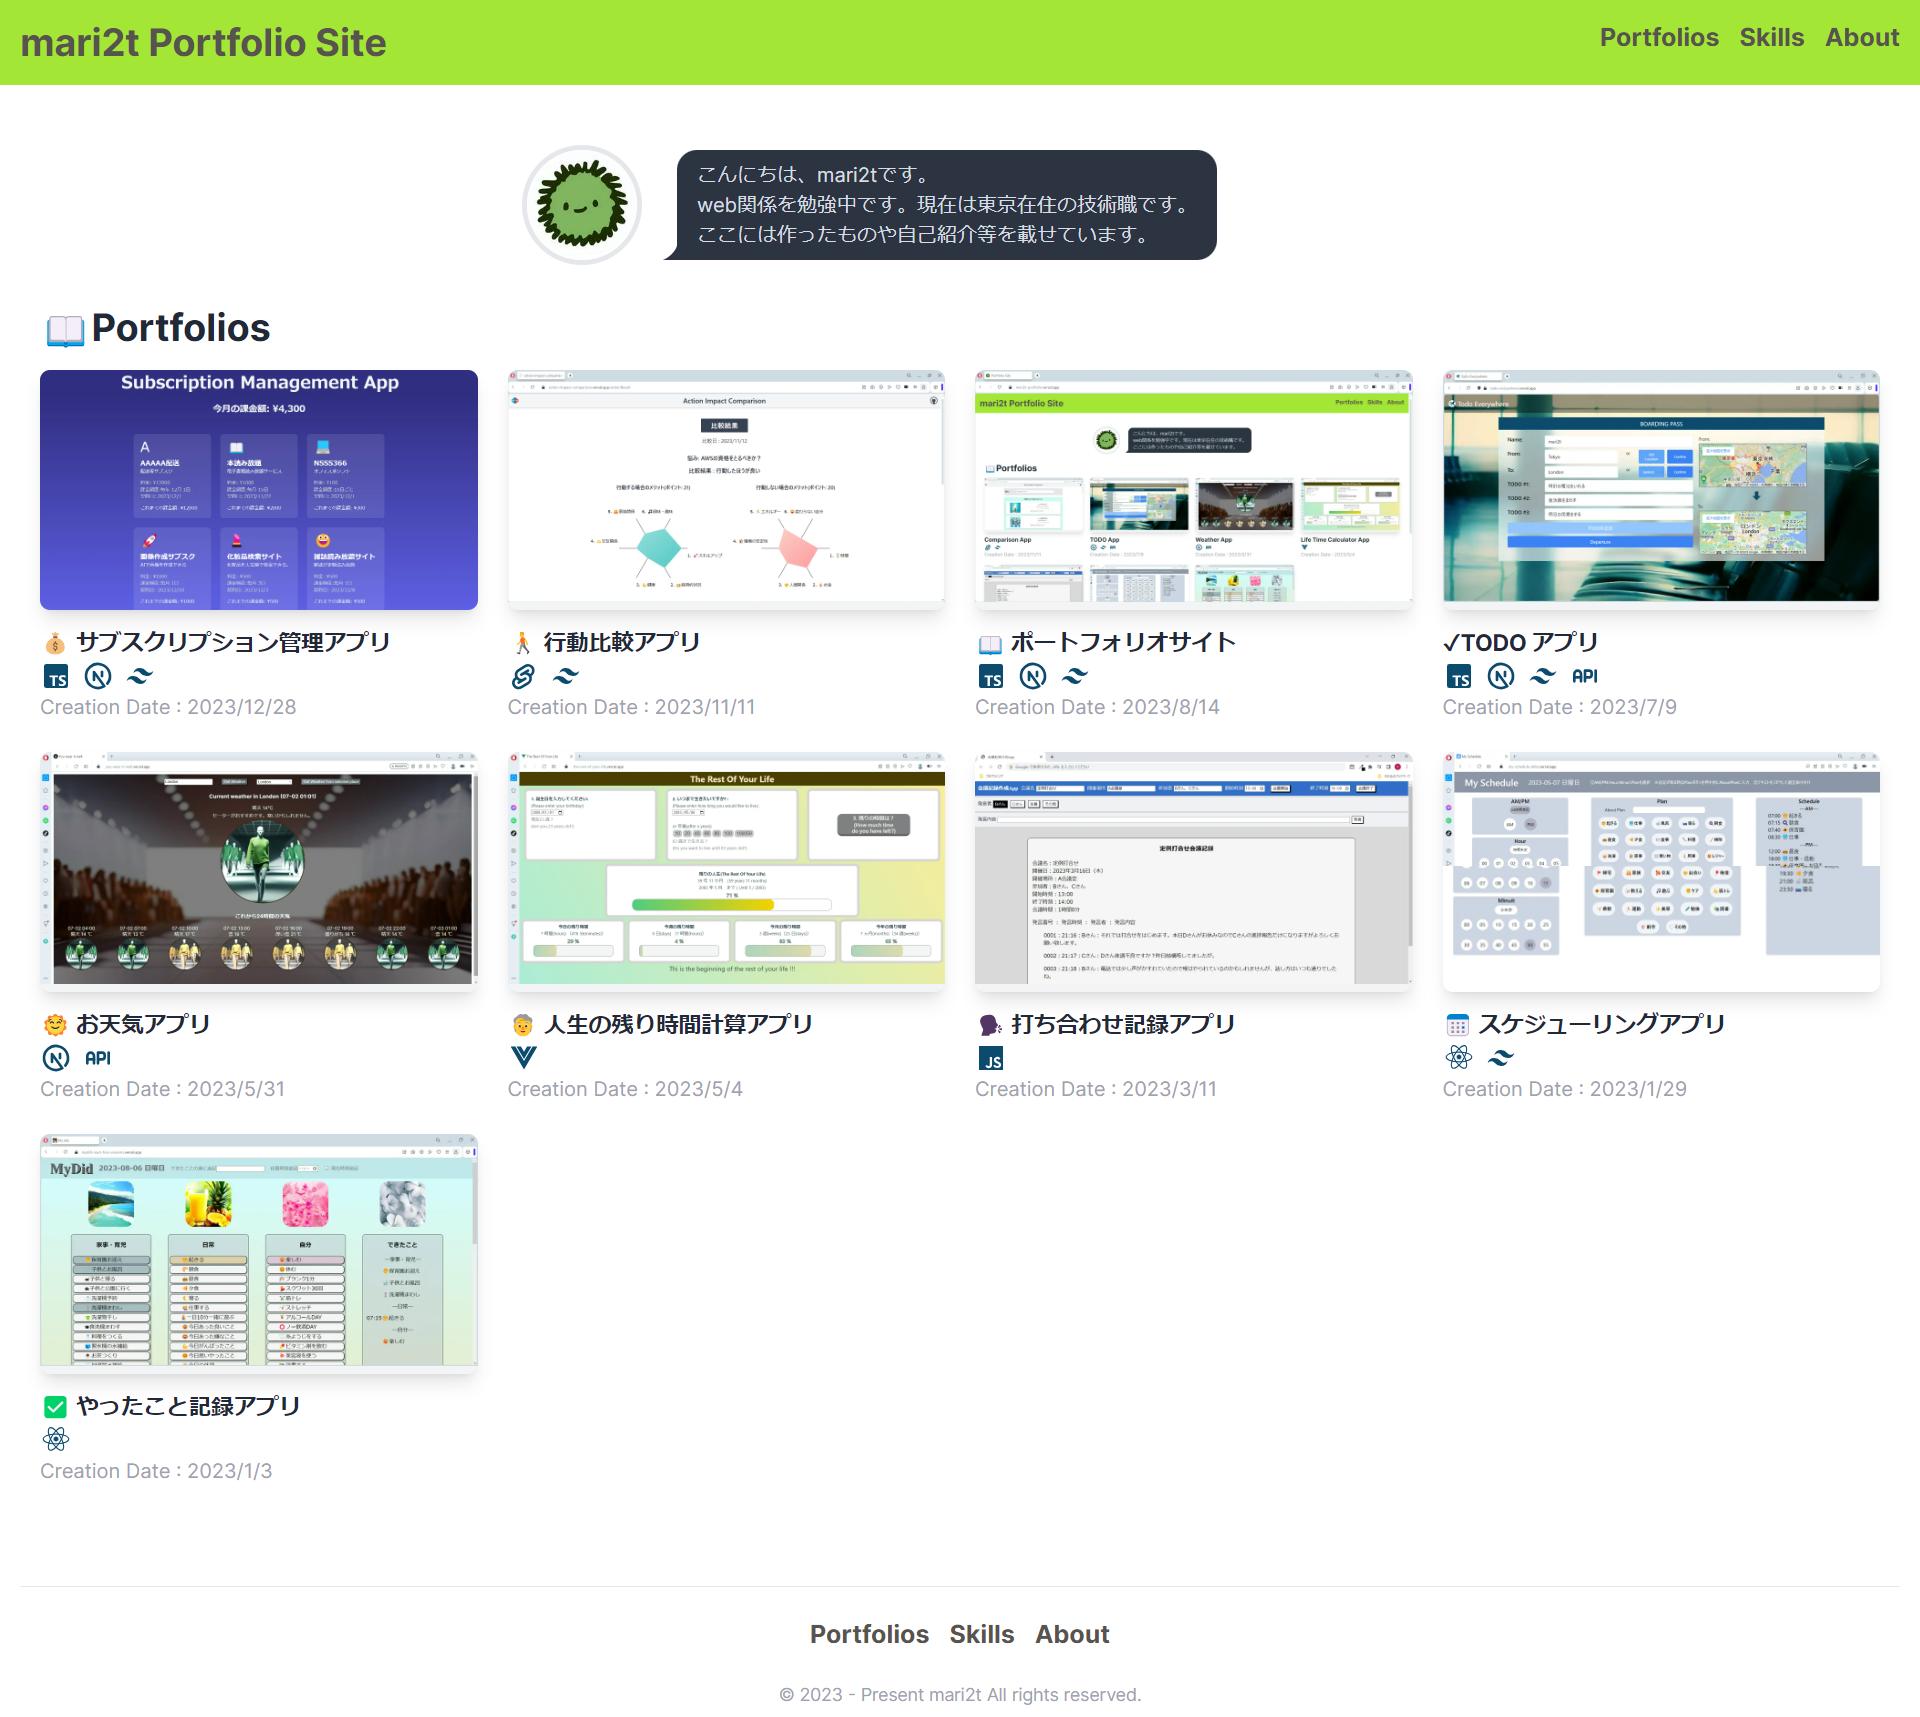
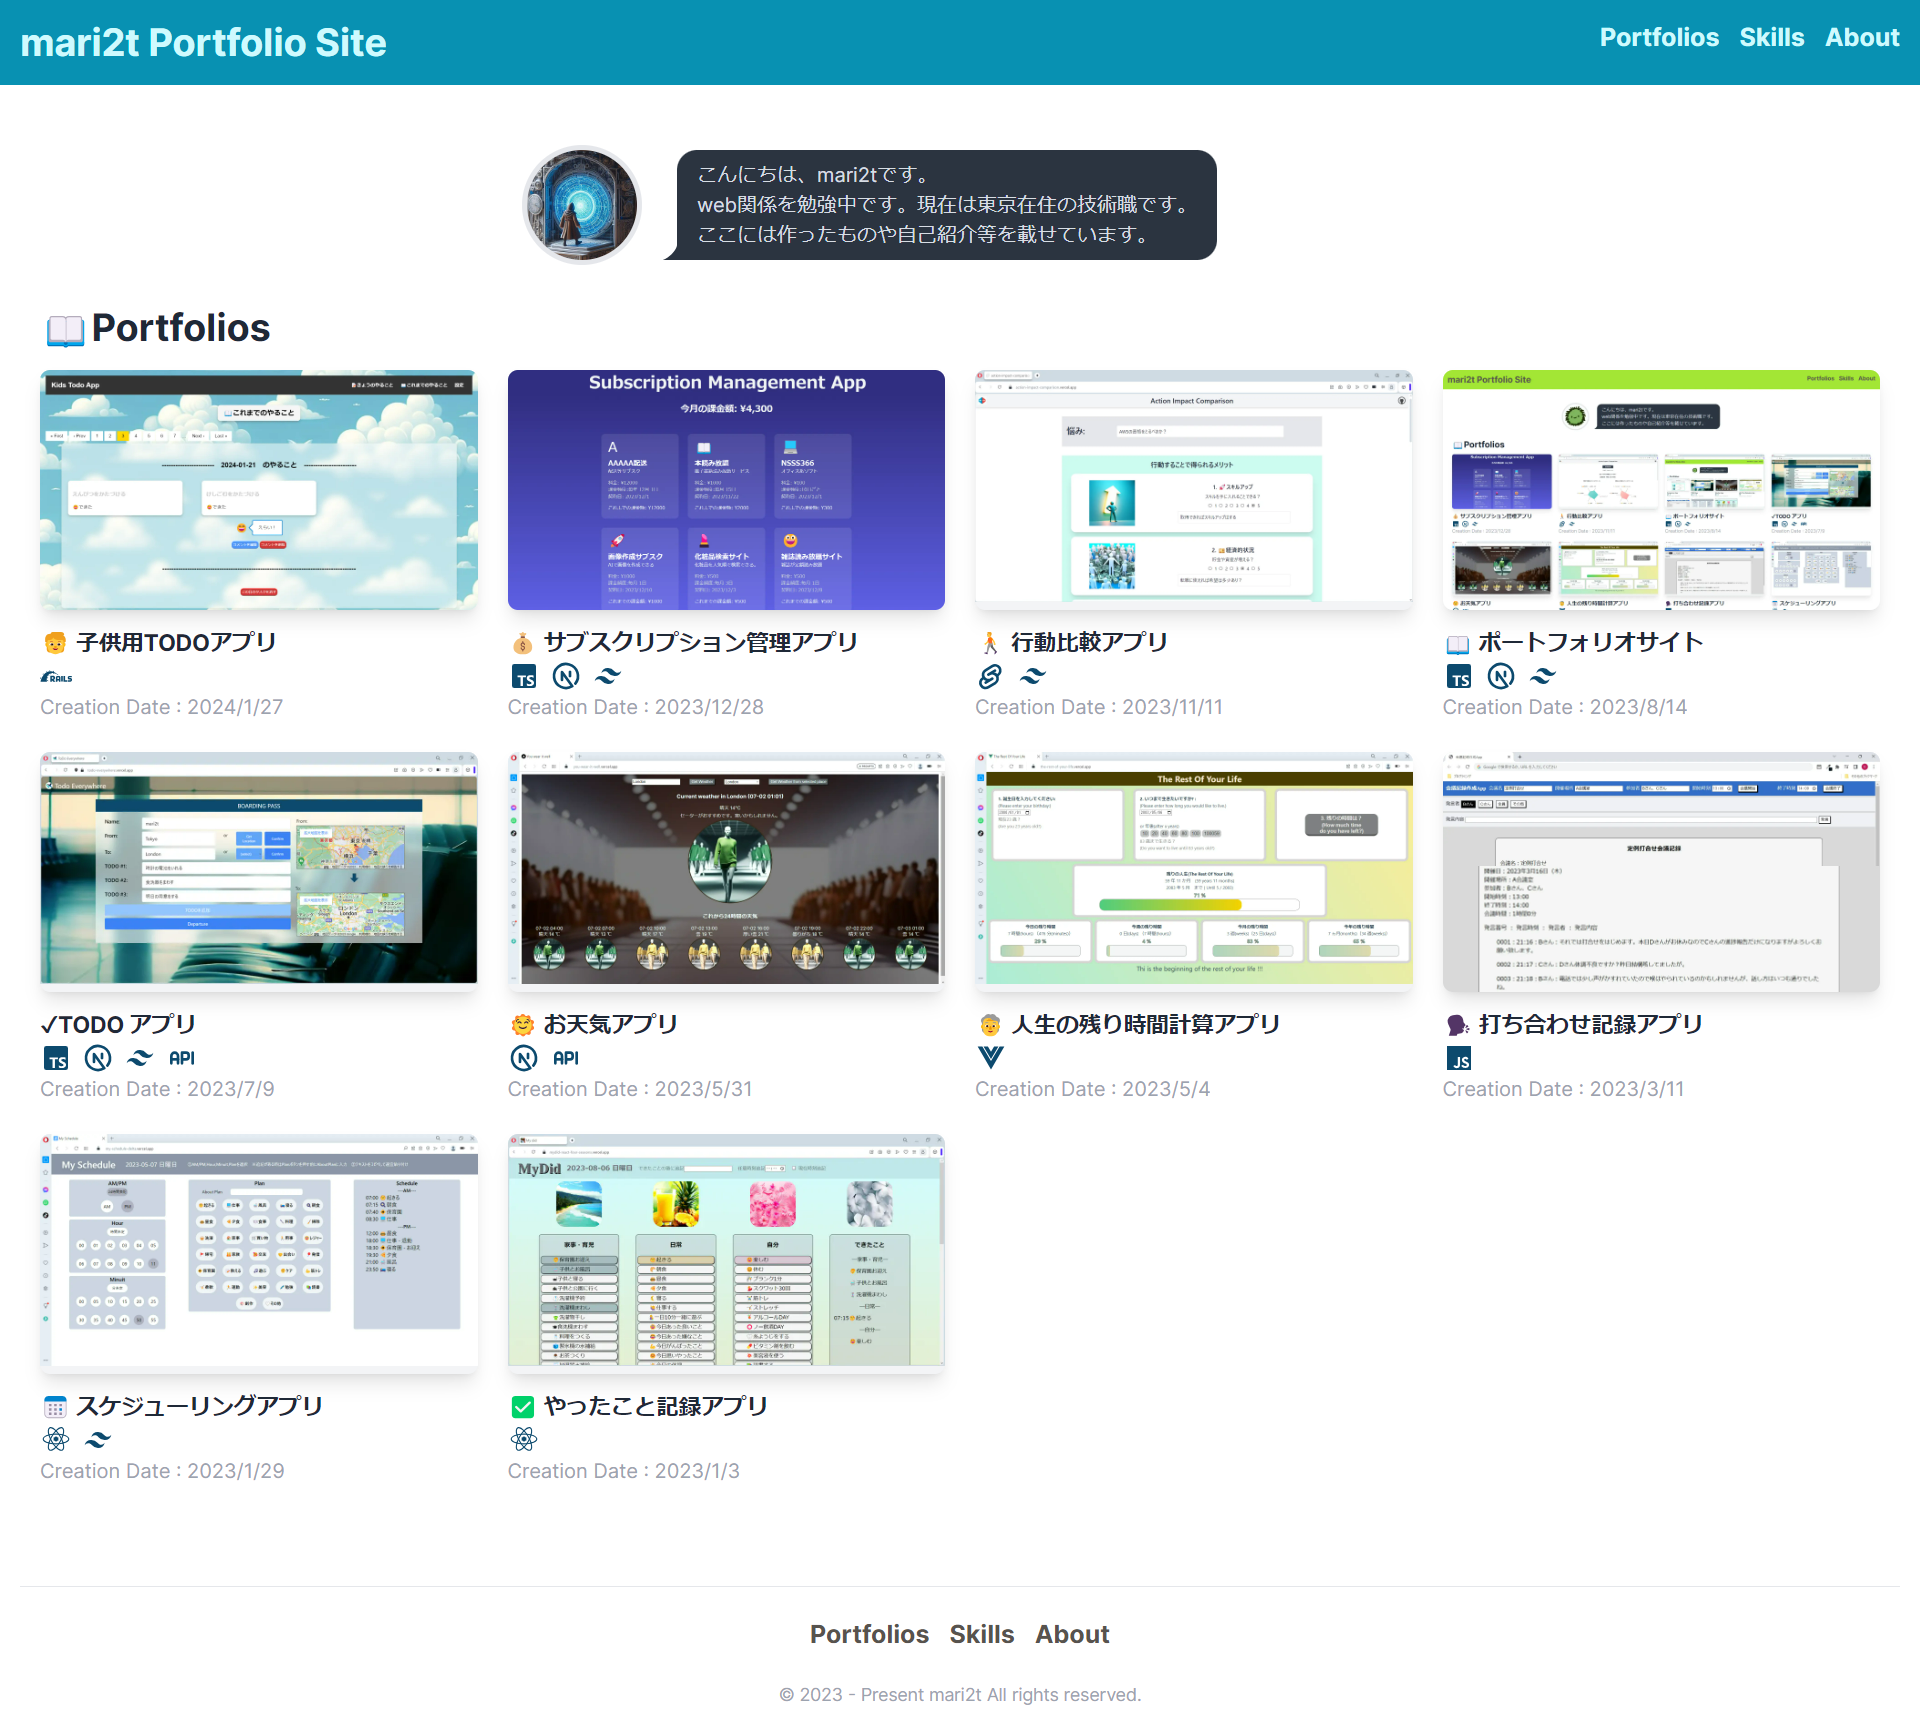
chore : style,About

diff --git a/src/app/about/page.tsx b/src/app/about/page.tsx
@@ -11,13 +11,13 @@ const profiles = [
     profileItems: [
       "東京在住の会社員です。",
       "web関係の技術を勉強中です。",
-      "キャリアを模索中です。",
+      "2024/10に応用情報を受験予定です。",
     ],
   },
   {
     title: "仕事",
     profileItems: [
-      "都内の会社で品質関係の技術職の業務をしています。",
+      "品質関係の技術職の業務を10年ほどしています。",
       "機器類操作60％、PC作業40％程度です。",
       "大学は工学部を専攻しました。",
     ],
@@ -51,10 +51,10 @@ const profiles = [
   {
     title: "好きなもの",
     profileItems: [
-      "旅行が好きで、国内は静岡、山梨、福島以外は行きました🚅",
+      "国内旅行は静岡、山梨、福島以外は行きました🚅",
       "ルポールのドラッグレースが好きです📺",
-      "外食が好きなので、優待目当ての株投資をしています💴",
-      "読書が好きです。何かに困ったときによく読みます📘",
+      "優待、配当目的の株投資をしています💴",
+      "読書は何かに困ったときによく読みます📘",
     ],
   },
 ];

diff --git a/src/app/components/Header.tsx b/src/app/components/Header.tsx
@@ -4,20 +4,20 @@ import { FaGithub } from "react-icons/fa";
 
 const Header: FunctionComponent = () => {
   return (
-    <header className="flex justify-between p-4 bg-lime-400">
+    <header className="flex justify-between p-4 bg-cyan-600">
       <div>
-        <Link href="/" className="text-stone-600 font-bold text-3xl">
+        <Link href="/" className="text-cyan-100 font-bold text-3xl">
           mari2t Portfolio Site
         </Link>
       </div>
       <div className="flex flex-col md:flex-row space-y-2 md:space-y-0 md:space-x-4">
-        <Link href="/" className="text-stone-600 font-bold text-xl">
+        <Link href="/" className="text-cyan-100 font-bold text-xl">
           Portfolios
         </Link>
-        <Link href="/skills" className="text-stone-600 font-bold text-xl">
+        <Link href="/skills" className="text-cyan-100 font-bold text-xl">
           Skills
         </Link>
-        <Link href="/about" className="text-stone-600 font-bold text-xl">
+        <Link href="/about" className="text-cyan-100 font-bold text-xl">
           About
         </Link>
       </div>

diff --git a/UPDATES.md b/UPDATES.md
@@ -1,5 +1,10 @@
 # UPDATES
 
+## 2024/8/11
+
+1. プロフィール画像、全体の色合い、変更。
+2. Aboutを現状と合わせた。
+
 ## 2024/6/30
 
 1. About の資格にAWS CLF の情報追加。
